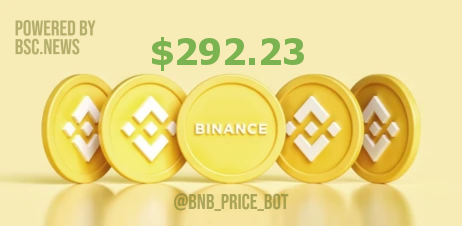
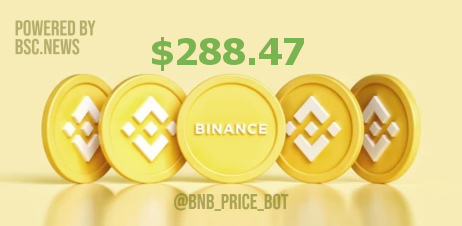
input options added

Changed region(s): [[0.4242, 0.1549, 0.6667, 0.3097]]

diff --git a/index.js b/index.js
@@ -10,8 +10,8 @@ const PORT = process.env.port || 3001 ;
 const CronJob = require("cron").CronJob;
 var prevBNBPrice = 0
 var prevUpdatedDate = new Date()
-
-
+var percToCheck =10
+var intervalCheck = 1*60*60*1000 //1hour default
 var isBotRunning = false
 var intervalId = 0
 
@@ -47,12 +47,25 @@ router.get('/status',(request,response) => {
         let config = JSON.parse(JSON.stringify(request.body))
         
             openingCandleTweet.start()
-
-            startBot("initial")
+            percToCheck=config.percToCheck!==0?config.percToCheck:percToCheck
+            if(config.prevUpdatedDate!==0){
+                prevUpdatedDate= new Date(config.prevUpdatedDate)
+            }
+            if(config.prevPrice!==0){
+                prevBNBPrice=config.prevPrice
+            }
+            if(config.intervalCheck!==0){
+                intervalCheck=config.intervalCheck
+            }
+            startBot("initial",config.prevPrice!==0?true:false)
 
             intervalId = setInterval(() => {
                 startBot("10perc")
-            }, 1*60*60*1000);
+            }, 
+            // 5000    
+            intervalCheck
+
+            );
 
         isBotRunning =true    
         response.json({data:'success'});
@@ -67,31 +80,33 @@ router.get('/status',(request,response) => {
         });
 
 // runType : initial , 10perc, opening
-const startBot = async (runType)=>{
+const startBot = async (runType,initialPriceGiven=false)=>{
     let response = await getBnbPrice()
     let price = response.binancecoin.usd
     console.log(price)
     if(price !== 0){
     if(runType==='initial'){
-        prevBNBPrice = price
+        if(initialPriceGiven===false){
+            prevBNBPrice = price
+        }
         prevUpdatedDate = new Date()
         await createImage(price,"neutral")
         await tweet("Current BNB Price")
     } else if(runType==='10perc'){
         let priceDiff = price - prevBNBPrice
         let perc = Math.abs(priceDiff/prevBNBPrice)*100
-        if(perc>=1){
+        if(perc>=percToCheck){
         let side = "neutral"
-        let tweet = "BNB Price"
+        let tweetMessage = "BNB Price"
         if(priceDiff>0){
             side='up'
-            tweet = `BNB Up 1% since ${prevUpdatedDate}`
+            tweetMessage = `BNB Up ${percToCheck}% since ${prevUpdatedDate.toString().slice(0,33)}`
         }else if(priceDiff<0){
             side = 'down'
-            tweet = `BNB Down 1% since ${prevUpdatedDate}`
+            tweetMessage = `BNB Down ${percToCheck}% since ${prevUpdatedDate.toString().slice(0,33)}`
         }
             await createImage(price,side)
-            await tweet(tweet)
+            await tweet(tweetMessage)
 
         prevBNBPrice = price
         prevUpdatedDate = new Date()
@@ -103,7 +118,7 @@ const startBot = async (runType)=>{
     }else if(runType==='opening'){
         let currentDate = new Date()
         await createImage(price,'neutral')
-        await tweet(`BNB Opening Price on ${currentDate}`)
+        await tweet(`BNB Opening Price on ${currentDate.toString().slice(0,33)}`)
     }
 }else {
     console.log("Error Getting Prices")
@@ -114,7 +129,7 @@ const startBot = async (runType)=>{
 
 
 
-const openingCandleTweet = new CronJob("0 * * * *", async () => {
+const openingCandleTweet = new CronJob("0 0 * * *", async () => {
     startBot("opening");
     console.log("Runing Opening Price Check")
   },

diff --git a/server/ImageCreator.js b/server/ImageCreator.js
@@ -24,9 +24,9 @@ exports.createImage = async(price,side)=>{
     loadImage('./images/bannerImage2.png').then((data) => {
       context.drawImage(data, 0, 0, 462, 226)
       if(side==='up'){
-        context.fillStyle = '#D92B2B'
-      }else if(side==='down'){
         context.fillStyle = '#7CB351'
+      }else if(side==='down'){
+        context.fillStyle = '#D92B2B'
       }else {
         context.fillStyle = '#3C3C22'
       }
